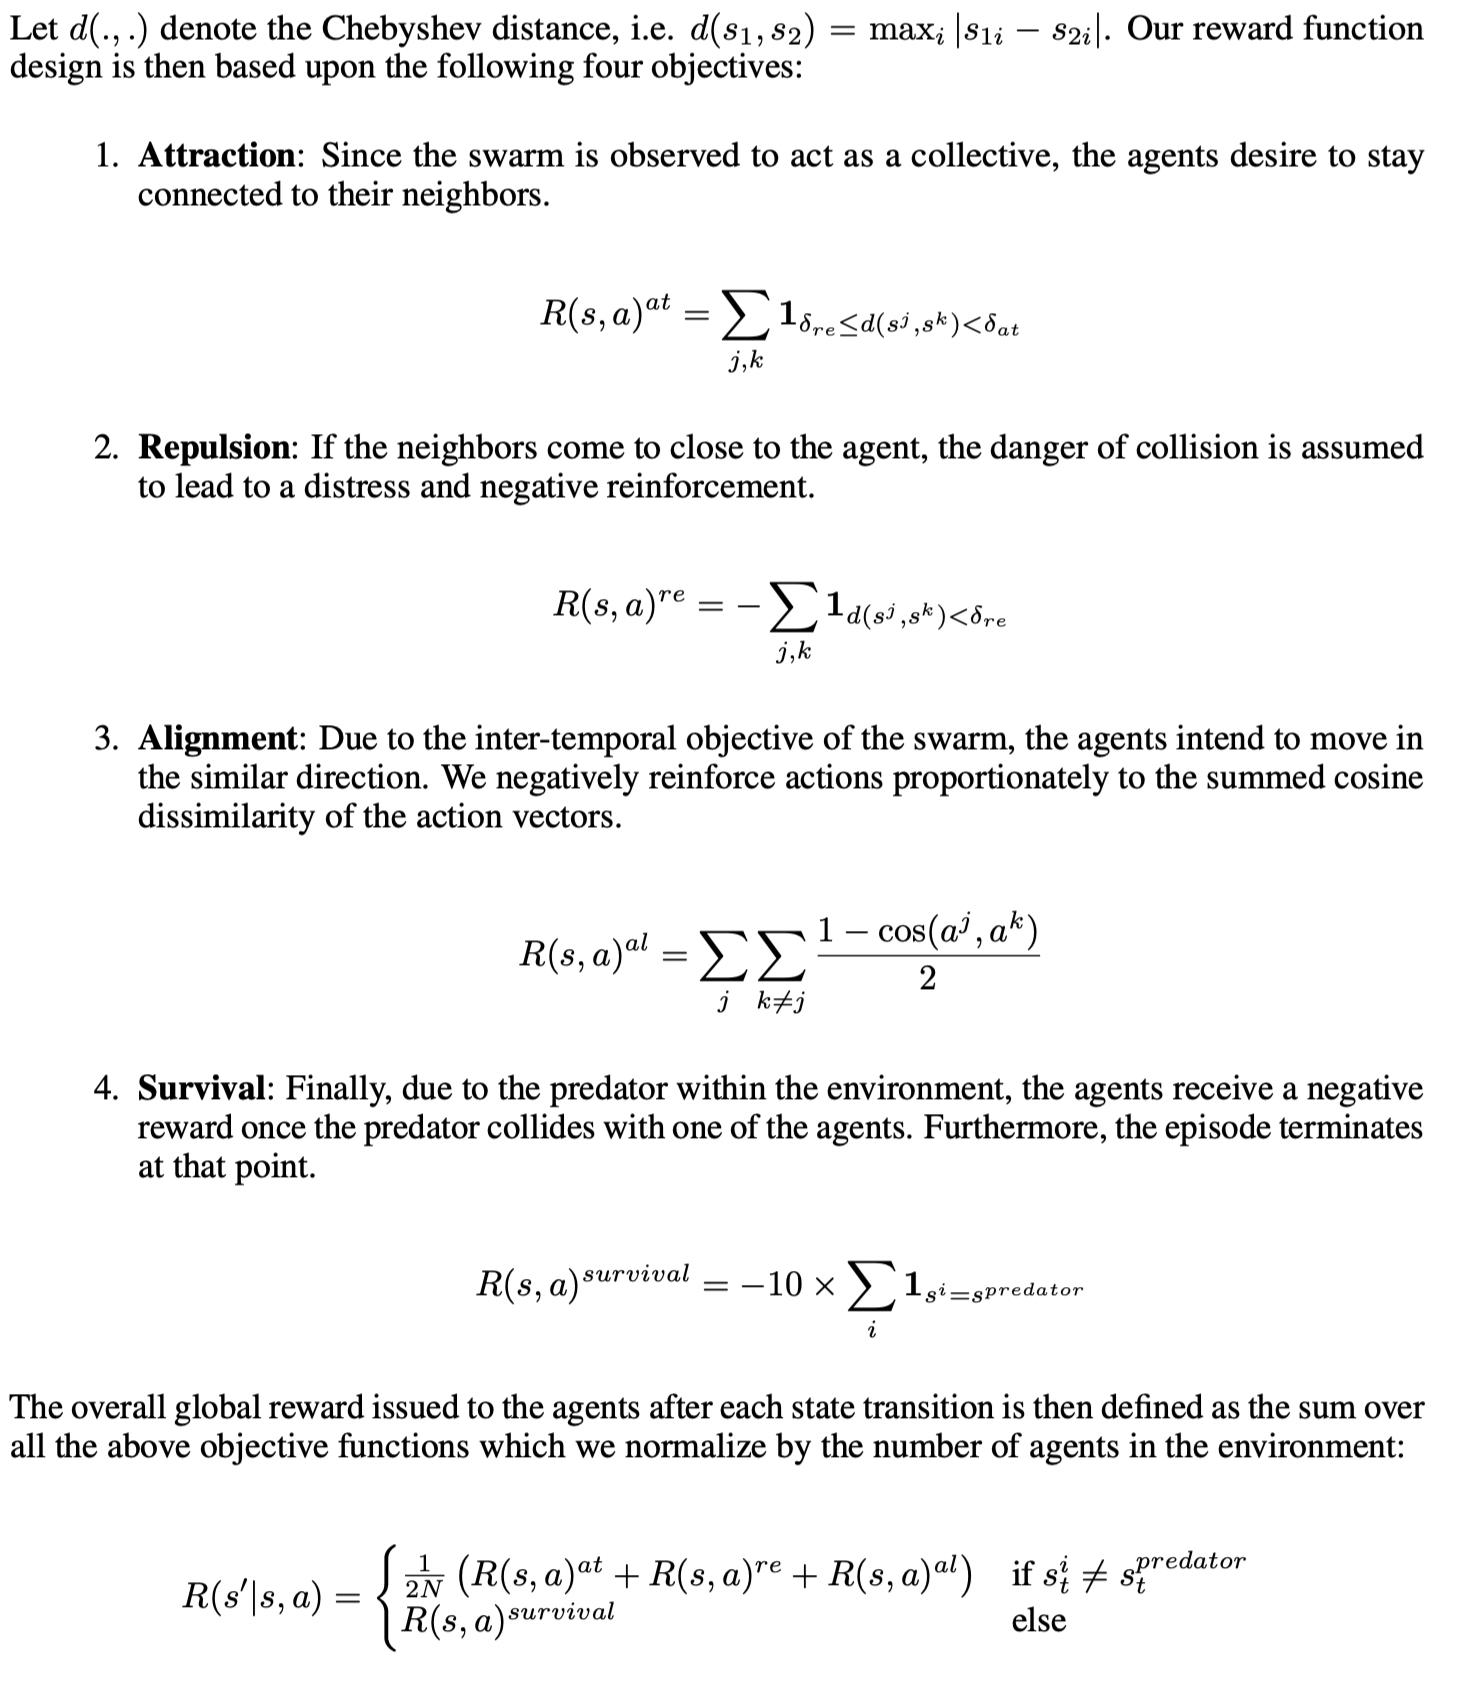
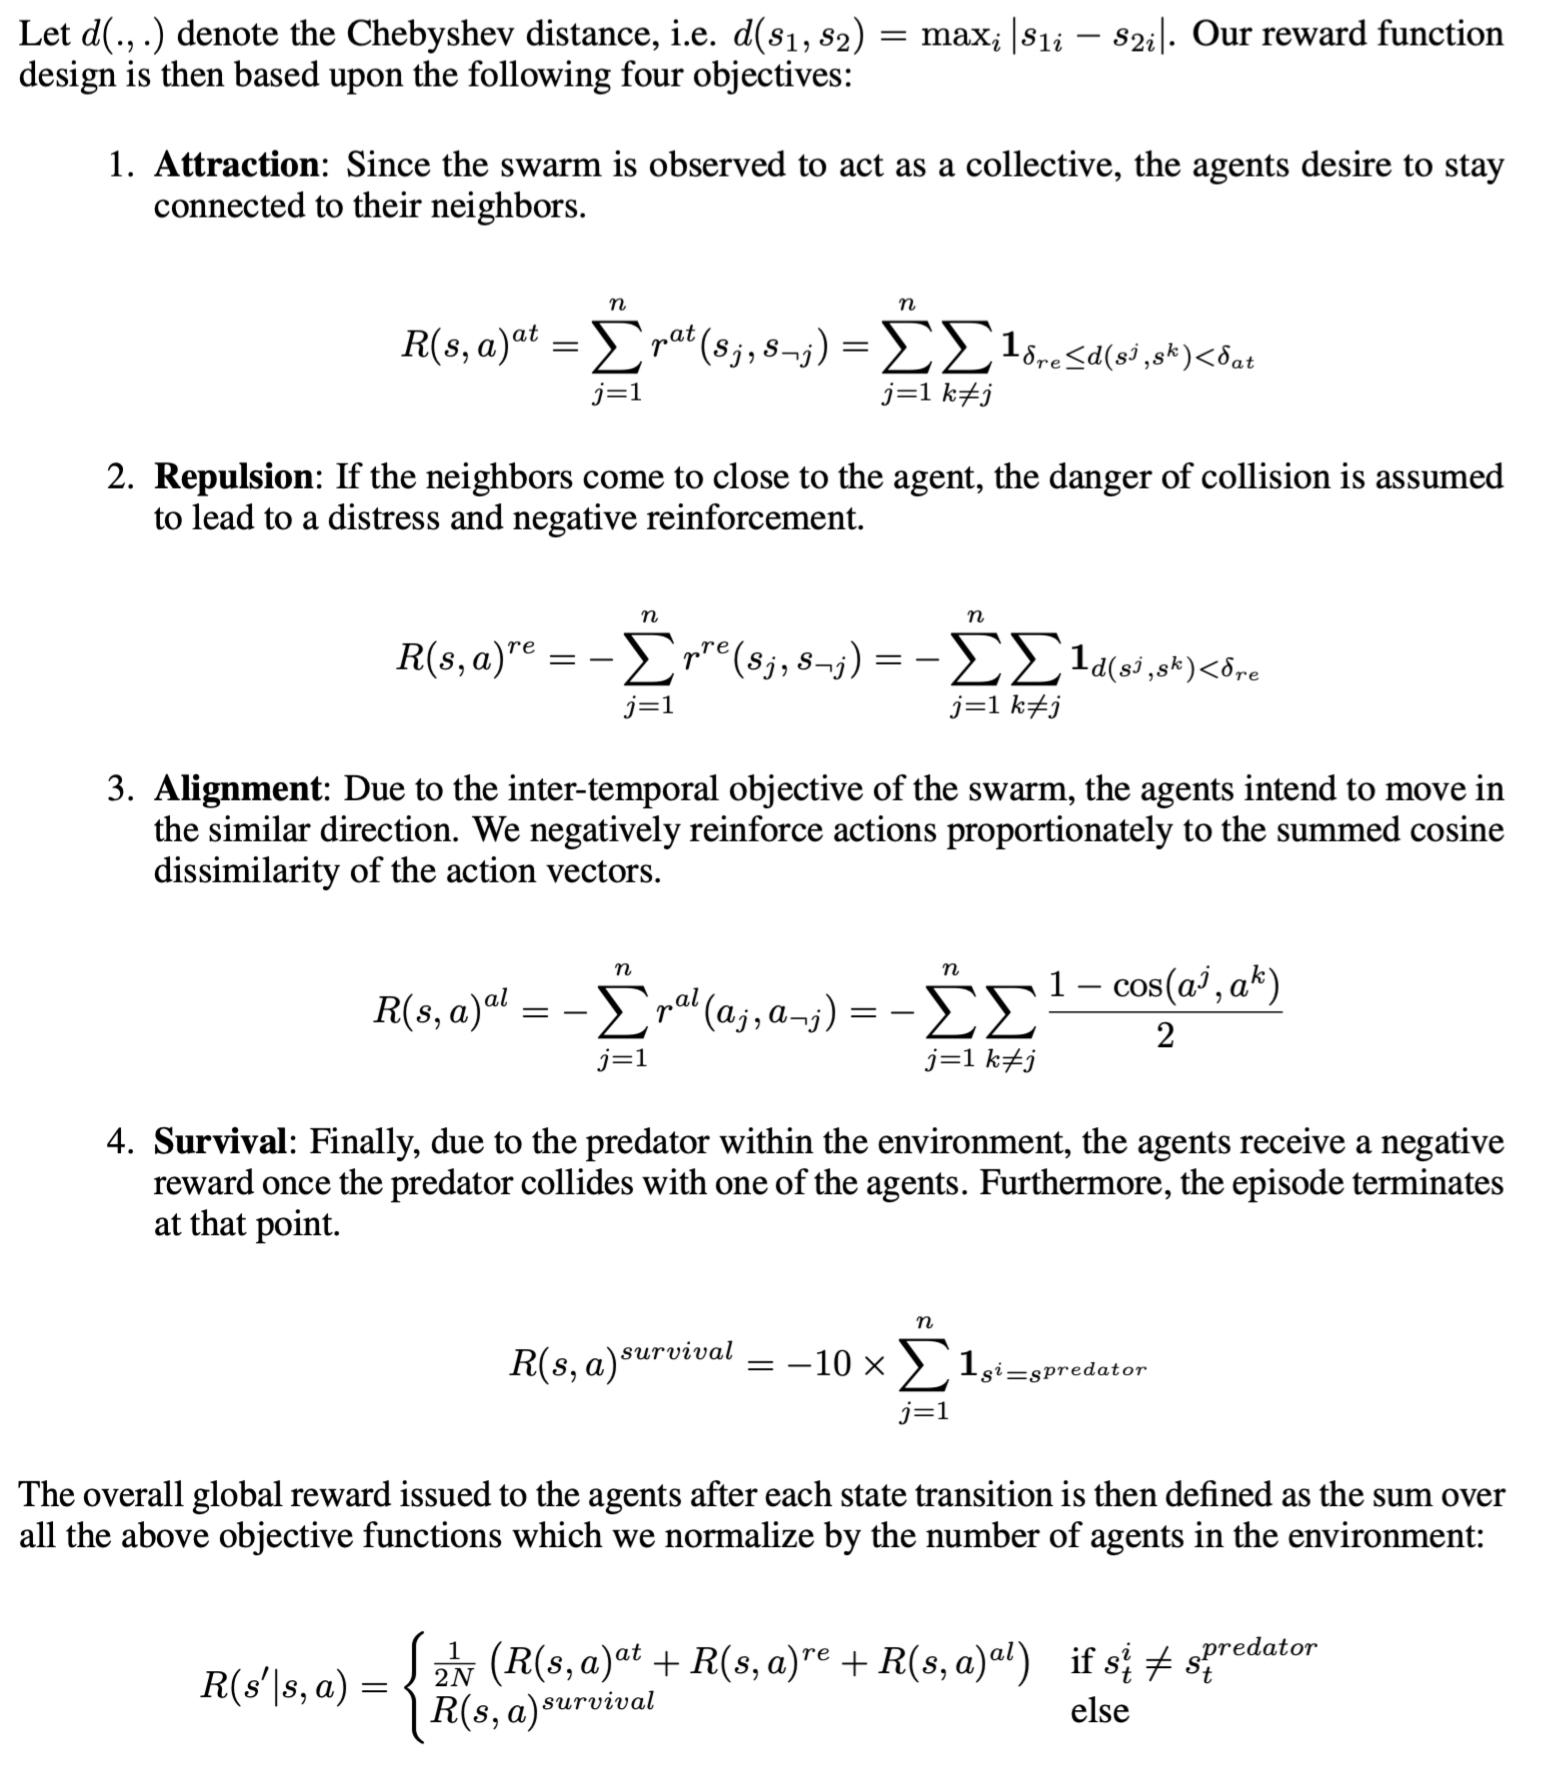
Log 04/03/19b - Corrections of alignment summation

diff --git a/gym_swarm/envs/swarm_env.py b/gym_swarm/envs/swarm_env.py
@@ -294,9 +294,8 @@ class SwarmEnv(gym.Env):
             move_array = np.array([m for m in self.move.values()])
             unalign = cosine_distances(move_array)/2
             # Get upper triangle set diag to 0, sum over all elements, subtract
-            temp = np.triu(unalign)
-            np.fill_diagonal(temp, 0)
-            reward -= np.max(temp)
+            np.fill_diagonal(unalign, 0)
+            reward -= np.max(unalign)
 
             # Normalize by the number of agents (twice - symmetry)
             reward /= 2*self.num_agents
